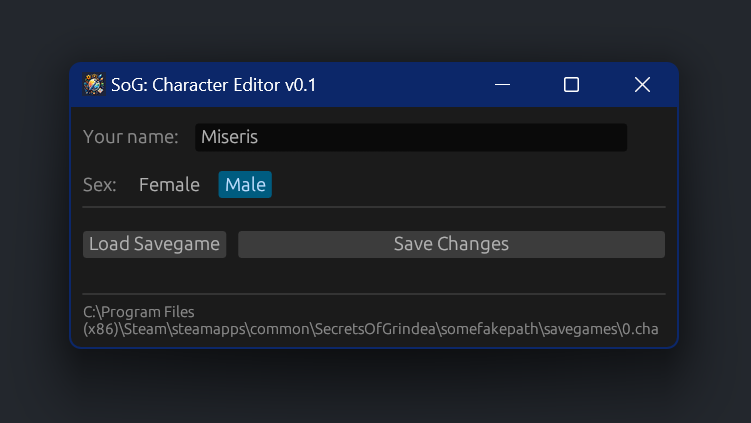
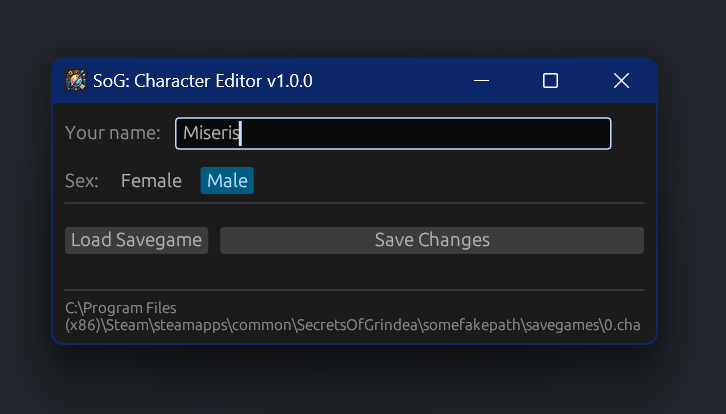
bumped version up

diff --git a/editor_ui/src/main.rs b/editor_ui/src/main.rs
@@ -8,7 +8,7 @@ use savegame_lib::csharp_string::CSharpString;
 use savegame_lib::player::Player;
 
 // Constants
-const WINDOW_TITLE: &str = "SoG: Character Editor v0.1";
+const WINDOW_TITLE: &str = "SoG: Character Editor v1.0.0";
 const WINDOW_WIDTH: f32 = 320.0;
 const WINDOW_HEIGHT: f32 = 160.0;
 const SEX_MALE: u8 = 1;
